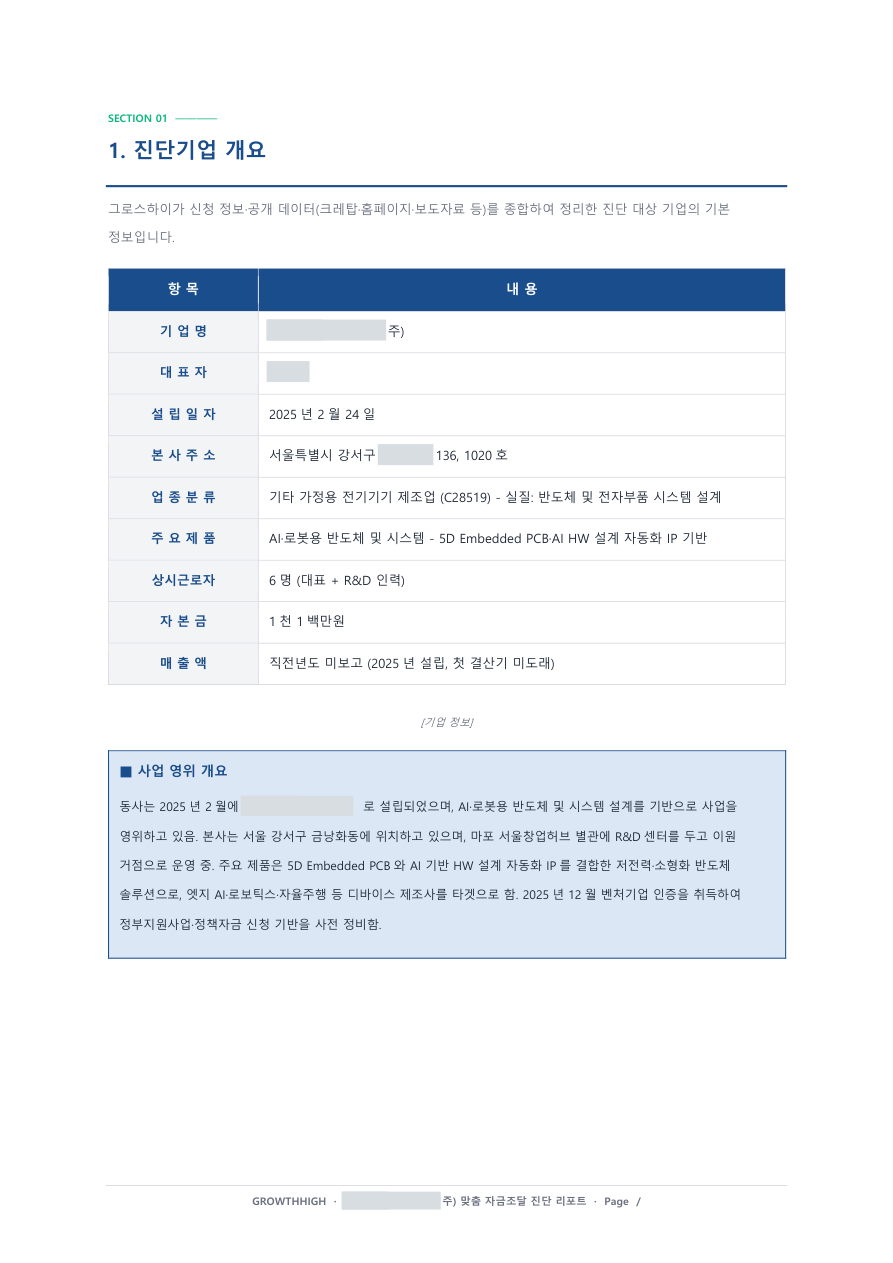
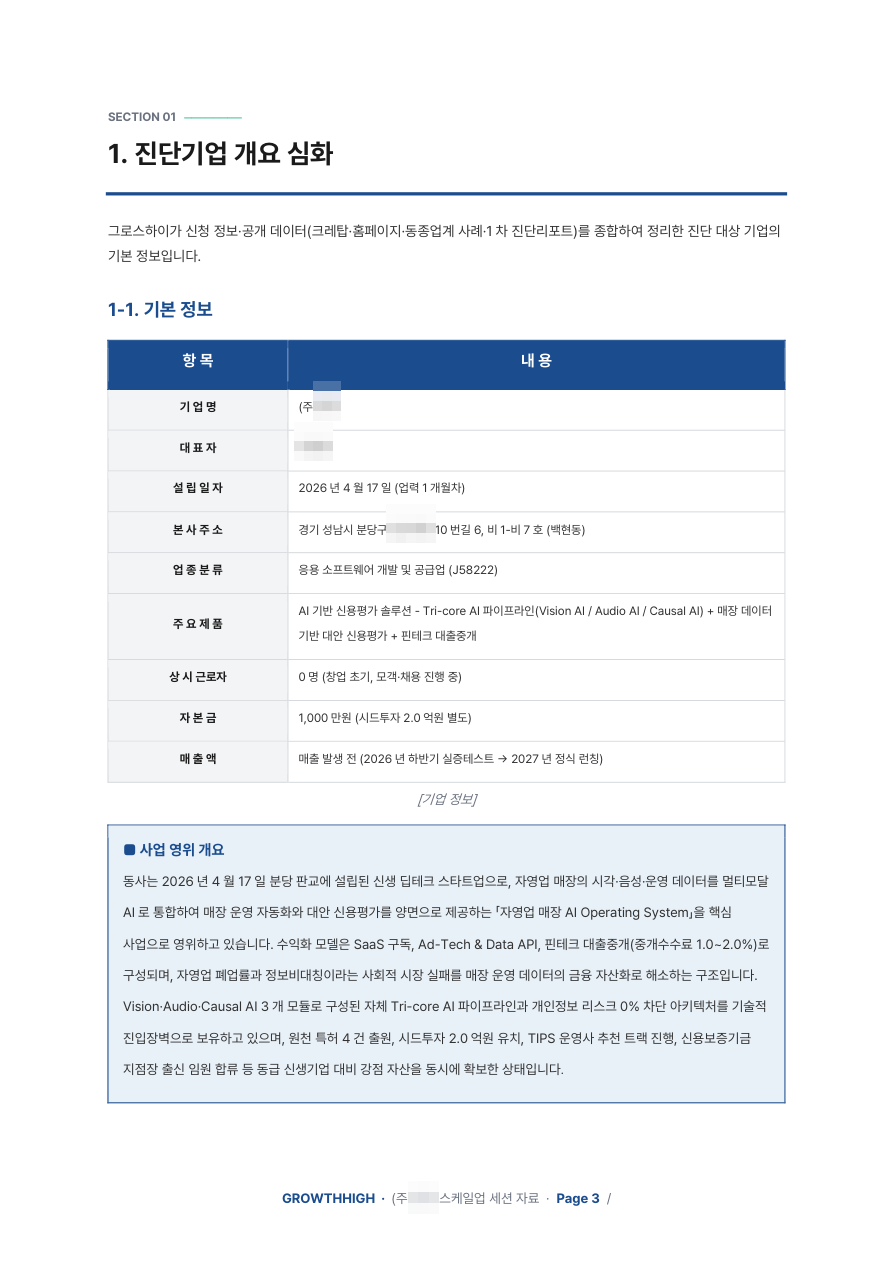
스케일업 세션 랜딩페이지 리포트 개편 (session/)
- 리포트 이미지 교체 (표지 + 섹션 01~05), 목차 항목명·설명 갱신
- 리포트 제작 방식 블록 신설 (DATA · AI AGENT · REVIEW 3카드)
- 키워드 「자금조달」 → 「런웨이」 전면 교체
- 세션 제목 아래 프레임워크 한 줄 추가 (BM진단 → 밸류라이징 → 런웨이 플랜)
- 색 체계 네이비 + 그린 2축으로 변경, 본문 강조 색 적용

rp-s06.png 는 포함하지 않음: 내장 인포그래픽에 고객사명이 마스킹되지
않은 채 남아 있어 별도 확인 후 반영 예정.

Changed region(s): [[0.1209, 0.0618, 0.9071, 0.8646], [0.2721, 0.9264, 0.6954, 0.9572], [0.5745, 0.5249, 0.6047, 0.5558]]

diff --git a/session/index.html b/session/index.html
@@ -47,12 +47,13 @@
 <style>
 :root{
   --green:#0f9d76;
-  --ink:#16181d;
-  --ink-2:#6b7079;
-  --ink-3:#9aa0a8;
-  --line:#e6e8ea;
+  --navy:#17284a;
+  --ink:#17284a;
+  --ink-2:#5c6577;
+  --ink-3:#959db0;
+  --line:#e3e7ee;
   --line-2:#cfd4d8;
-  --fill:#eef0f2;
+  --fill:#eef1f6;
 }
 *{box-sizing:border-box}
 html{scroll-behavior:smooth}
@@ -67,7 +68,7 @@ b{font-weight:700}
 .site-head{border-bottom:1px solid var(--line);padding:18px 0}
 .mark{font-size:17px;font-weight:700;letter-spacing:-.01em;text-decoration:none;color:var(--ink)}
 .mark em{font-style:normal;color:var(--green)}
-.site-foot{border-top:1px solid var(--line);background:#fafbfb;padding:38px 0 46px;margin-top:0}
+.site-foot{border-top:1px solid var(--line);background:#fafbfc;padding:38px 0 46px;margin-top:0}
 .fm{margin:0 0 14px;font-size:15px;font-weight:700;color:var(--ink)}
 .fm em{font-style:normal;color:var(--green)}
 .fi{margin:0 0 14px;font-size:12.5px;color:var(--ink-2);line-height:1.9}
@@ -97,7 +98,7 @@ b{font-weight:700}
 
 /* 숫자 */
 .stats{margin-top:34px;display:grid;grid-template-columns:repeat(4,1fr);
-  background:#f7f8f9;border-radius:16px;padding:30px 10px}
+  background:#f6f8fb;border-radius:16px;padding:30px 10px}
 .stats > div + div{border-left:1px solid #e3e6e9}
 .stats .n{margin:0 0 6px;font-size:30px;font-weight:700;color:var(--green);line-height:1.2;text-align:center}
 .stats .n span{font-size:15px;color:var(--ink);margin-left:2px}
@@ -123,7 +124,7 @@ b{font-weight:700}
 .cards{display:grid;grid-template-columns:repeat(3,1fr);gap:26px}
 
 /* 무료 이유 */
-.why-box{margin-top:52px;background:#f7f8f9;border-radius:16px;padding:44px 44px 40px;text-align:center}
+.why-box{margin-top:52px;background:#f6f8fb;border-radius:16px;padding:44px 44px 40px;text-align:center}
 .why-lead{margin:0 0 12px;font-size:23px;font-weight:700;letter-spacing:-.02em}
 .why-desc{margin:0 0 34px;font-size:14.5px;color:var(--ink-2);line-height:1.9}
 .why-grid{display:grid;grid-template-columns:repeat(3,1fr);gap:22px;text-align:left}
@@ -146,22 +147,29 @@ b{font-weight:700}
 
 /* 세션 소개 */
 .sess-intro{max-width:860px;margin:56px auto 0;padding:44px 40px;text-align:center;
-  background:#fafbfb;border:1px solid var(--line);border-radius:16px}
+  background:#fafbfc;border:1px solid var(--line);border-radius:16px}
 
-.sess-intro .sess-t{margin:0 0 22px;font-size:25px;font-weight:700;letter-spacing:-.025em;color:var(--ink);line-height:1.45}
+.sess-fw{margin:10px 0 22px;font-size:13px;font-weight:700;color:var(--green);letter-spacing:.02em}
+.sess-fw i{font-style:normal;color:#b9c2d2;margin:0 6px}
+.sess-intro .sess-t{margin:0 0 0;font-size:25px;font-weight:700;letter-spacing:-.025em;color:var(--ink);line-height:1.45}
 .sess-intro p{margin:0 0 22px;font-size:15px;color:var(--ink-2);line-height:2.05;word-break:keep-all}
-.sess-intro p b{color:var(--ink);font-weight:600}
+.sess-intro p b{color:var(--green);font-weight:700}
 .sess-intro p:last-child{margin-bottom:0}
 
 /* 리포트 */
 .rpt{margin-top:40px;background:#fff;border:1px solid var(--line);border-radius:14px;padding:34px 32px}
 .rpt-head{max-width:760px;margin:0 auto 30px;text-align:center}
 .rpt-head .t{margin:0 0 12px;font-size:20px;font-weight:700;letter-spacing:-.02em}
-.rpt-head .kw{display:inline-block;margin:0 0 20px;font-size:13px;font-weight:700;color:var(--green);
-  background:#f0f9f5;border:1px solid #d7ece5;border-radius:999px;padding:7px 18px;letter-spacing:-.01em}
+.rpt-head .hl{margin:0 0 12px;font-size:17px;font-weight:700;color:var(--ink);line-height:1.6;letter-spacing:-.015em}
+.rpt-head .hl span{background:linear-gradient(transparent 60%,rgba(15,157,118,.22) 60%)}
+.rpt-how{display:grid;grid-template-columns:repeat(3,1fr);gap:12px;margin-top:24px;text-align:left}
+.how{border:1px solid var(--line);border-radius:10px;padding:16px 16px 15px;background:#fafbfc}
+.how .hk{margin:0 0 8px;font-size:10.5px;font-weight:700;letter-spacing:.08em;color:var(--green)}
+.how .hv{margin:0 0 6px;font-size:14px;font-weight:700;letter-spacing:-.01em;line-height:1.5}
+.how .hd{margin:0;font-size:12px;color:var(--ink-2);line-height:1.75}
 .rpt-head .d{margin:0 0 16px;font-size:14.5px;color:var(--ink-2);line-height:2.05;word-break:keep-all}
 .rpt-head .d:last-child{margin-bottom:0}
-.rpt-head .d b{color:var(--ink);font-weight:600}
+.rpt-head .d b{color:var(--green);font-weight:700}
 .rpt-grid{display:grid;grid-template-columns:.62fr 1.38fr;gap:30px;align-items:stretch}
 .rpt-cover{position:relative;border:1px solid var(--line);border-radius:10px;overflow:hidden;
   box-shadow:0 12px 30px rgba(20,25,35,.11);background:#f4f6f8}
@@ -174,14 +182,14 @@ b{font-weight:700}
   transition:border-color .15s,background .15s}
 .rpt-it .n{margin:0;font-size:14px;font-weight:700}
 .rpt-it .n i{font-style:normal;color:var(--ink-3);font-size:11.5px;margin-right:9px}
-.rpt-it .dd{margin:8px 0 0;font-size:12.5px;color:#6b7079;line-height:1.8;display:none}
+.rpt-it .dd{margin:8px 0 0;font-size:12.5px;color:var(--ink-2);line-height:1.8;display:none}
 .rpt-it.on{border-color:var(--green);background:#f5fbf9}
 .rpt-it.on .dd{display:block}
 .rpt-it.on .n i{color:var(--green)}
 
 /* 디테일 */
 .rule{display:block;width:34px;height:3px;background:var(--green);border-radius:2px;margin:0 auto 18px}
-.hl{background:linear-gradient(transparent 62%,rgba(15,157,118,.16) 62%);padding:0 2px}
+.hl{background:linear-gradient(transparent 60%,rgba(15,157,118,.22) 60%);padding:0 2px}
 .badge{position:absolute;top:12px;left:12px;background:rgba(255,255,255,.94);
   color:var(--ink);font-size:11.5px;font-weight:700;padding:5px 11px;border-radius:6px;
   letter-spacing:-.01em}
@@ -203,6 +211,7 @@ b{font-weight:700}
 .step ul{margin:0;padding:0;list-style:none;border-top:1px solid #f0f2f4;padding-top:14px}
 .step li{position:relative;padding-left:15px;font-size:13.5px;color:var(--ink-2);
   line-height:1.7;margin-bottom:9px}
+.step li b{color:var(--green);font-weight:700}
 .step li:last-child{margin-bottom:0}
 .step li::before{content:"";position:absolute;left:0;top:9px;width:5px;height:5px;
   border-radius:50%;background:#cdd3d9}
@@ -215,6 +224,7 @@ b{font-weight:700}
 .form-head{text-align:center;padding-bottom:26px;margin-bottom:26px;border-bottom:1px solid var(--line)}
 .form-head h2{margin:0 0 10px;font-size:23px;font-weight:700;line-height:1.5;letter-spacing:-.02em}
 .form-head h2 span{color:var(--green)}
+.form-head h2{color:var(--navy)}
 .form-head p{margin:0;font-size:13.5px;color:var(--ink-2)}
 
 /* 폼 */
@@ -261,7 +271,8 @@ b{font-weight:700}
   .steps{gap:14px}
   .sess-intro{padding:28px 20px;margin-top:36px}
   .sess-intro .sess-t{font-size:21px}
-  .rpt-head .kw{font-size:12px;padding:7px 14px;line-height:1.7}
+  .rpt-how{grid-template-columns:1fr;gap:10px}
+  .rpt-head .hl{font-size:15.5px}
   .rpt{padding:24px 20px}
   .rpt-grid{grid-template-columns:1fr;gap:22px}
   .rpt-it{flex:none}
@@ -341,8 +352,9 @@ b{font-weight:700}
   <div class="sess-intro">
     <span class="rule"></span>
     <h2 class="sess-t">그로스하이 스케일업 세션</h2>
-    <p>지원사업과 정책자금, 보증, 투자까지 기업이 활용할 수 있는 자금조달 방법은 다양합니다.<br><b>그러나 모든 기업에 같은 전략이 적용되지는 않습니다.</b></p>
-    <p>그로스하이 스케일업 세션은 <b>기업의 비즈니스모델과 현재 사업단계</b>에서 출발합니다.<br>기술·산업 동향과 시장환경, 지금까지 확보한 성과를 함께 분석해 지금 검토해야 할 <b>자금조달 경로와 준비 순서</b>를 짚어드립니다.</p>
+    <p class="sess-fw">BM진단 <i>→</i> 밸류라이징 <i>→</i> 런웨이 플랜</p>
+    <p>정책자금과 지원사업, 보증, 투자까지 기업이 확보할 수 있는 <b>런웨이</b>는 다양합니다.<br><b>그러나 모든 기업에 같은 전략이 적용되지는 않습니다.</b></p>
+    <p>그로스하이 스케일업 세션은 <b>기업의 비즈니스모델과 현재 사업단계</b>에서 출발합니다.<br>기술·산업 동향과 시장환경, 지금까지 확보한 성과를 함께 분석해 지금 확보 가능한 <b>런웨이와 준비 순서</b>를 짚어드립니다.</p>
   </div>
 </section>
 
@@ -358,9 +370,9 @@ b{font-weight:700}
       <h4>귀사 사전 분석</h4>
       <p class="when">세션 전 1주간</p>
       <ul>
-        <li>산업 · BM · 전략 히스토리 사전 분석</li>
+        <li><b>산업 · BM · 전략 히스토리</b> 사전 분석</li>
         <li>섹터 케이스 스터디</li>
-        <li>맞춤 스케일업 전략 리포트 준비</li>
+        <li><b>맞춤 스케일업 전략 리포트</b> 준비</li>
       </ul>
     </div>
     <div class="step reveal">
@@ -369,7 +381,7 @@ b{font-weight:700}
       <p class="when">60분 대면 세션</p>
       <ul>
         <li>섹터 내 Issue · Needs 파인딩</li>
-        <li>전략 진단 - BM · R&amp;D · 자금 전략방향</li>
+        <li>전략 진단 - <b>BM · R&amp;D · 런웨이</b> 전략방향</li>
         <li>블루프린트 - 해결 케이스 기반</li>
         <li>자문 지도 - 액션 아이템</li>
       </ul>
@@ -379,7 +391,7 @@ b{font-weight:700}
       <h4>리캡노트 정리</h4>
       <p class="when">세션 후 즉시</p>
       <ul>
-        <li>맞춤 리캡노트 제공</li>
+        <li><b>맞춤 리캡노트</b> 제공</li>
         <li>논의된 액션아이템 구조화 요약</li>
         <li>필요 시 심층 리포트(50P) 별도 구매</li>
       </ul>
@@ -388,9 +400,25 @@ b{font-weight:700}
   <div class="rpt reveal">
     <div class="rpt-head">
       <p class="t">스케일업 세션 리포트</p>
-      <p class="kw">「BM · R&amp;D · 자금」 필요충분조건 &nbsp;+&nbsp; 맞춤형 성장 로드맵</p>
-      <p class="d">세션에서 나눈 이야기를 상담으로 끝내지 않고, <b>실제 성장 전략으로 이어갑니다.</b><br>비즈니스 모델과 사업 단계, 자금 조달 전략을 기업 상황에 맞게 설계한 <b>맞춤형 스케일업 리포트</b>를 제공해 다음 액션을 구체화합니다.</p>
-      <p class="d">이 리포트에는 그로스하이가 <b>1,200여 개 스타트업</b>을 컨설팅하며 축적한 경험과<br><b>134건의 스케일업 사례</b>에서 얻은 인사이트를 담았습니다.</p>
+      <p class="hl">세션에서 나눈 이야기를 상담으로 끝내지 않고, <span>실제 성장 전략으로 이어갑니다.</span></p>
+      <p class="d">비즈니스 모델과 사업 단계, 런웨이 플랜을 기업 상황에 맞게 설계한 <b>맞춤형 스케일업 리포트</b>를 제공해 다음 액션을 구체화합니다.</p>
+      <div class="rpt-how">
+        <div class="how">
+          <p class="hk">DATA</p>
+          <p class="hv">실시간 17개 정책사이트</p>
+          <p class="hd">공고 원문에서 지원 규모·자격·마감을 직접 확인</p>
+        </div>
+        <div class="how">
+          <p class="hk">AI AGENT</p>
+          <p class="hv">그로스하이 자체 경험칙 학습</p>
+          <p class="hd">1,200여 개 컨설팅과 134건 스케일업 사례 기준으로 매칭</p>
+        </div>
+        <div class="how">
+          <p class="hk">REVIEW</p>
+          <p class="hv">담당 컨설턴트 인적 검수</p>
+          <p class="hd">기업 상황에 맞는지 사람이 다시 판단하고 보완</p>
+        </div>
+      </div>
     </div>
     <div class="rpt-grid" id="rpt">
       <div>
@@ -402,28 +430,28 @@ b{font-weight:700}
       </div>
       <div class="rpt-list">
         <div class="rpt-it" data-img="img/rp-s01.png">
-          <p class="n"><i>01</i>진단기업 개요</p>
-          <p class="dd">신청 정보와 공개 데이터를 종합해 기본 정보와 사업 영위 개요를 담습니다.</p>
+          <p class="n"><i>01</i>진단기업 개요 심화</p>
+          <p class="dd">기본 정보와 사업 영위 개요에 BM 캔버스, 핵심 자원, 경쟁구도 분석을 더해 심화합니다.</p>
         </div>
         <div class="rpt-it" data-img="img/rp-s02.png">
-          <p class="n"><i>02</i>맞춤 전략 리포팅</p>
-          <p class="dd">적합 정부지원사업, 정책자금·보증, 기업인증 로드맵, 추가 전략 기회를 매칭합니다.</p>
+          <p class="n"><i>02</i>맞춤 전략 리포팅 심화</p>
+          <p class="dd">적합 정부지원사업과 정책자금·보증, 기업인증 로드맵, 추가 전략 기회를 매칭하고 실행 절차까지 안내합니다.</p>
         </div>
         <div class="rpt-it" data-img="img/rp-s03.png">
-          <p class="n"><i>03</i>사업별 검토리뷰</p>
-          <p class="dd">상위 3개 사업에 대해 적합 포인트·보완 포인트·합격 전략의 3단 분석을 제공합니다.</p>
+          <p class="n"><i>03</i>사업별 검토리뷰 + PSST 작성 전략</p>
+          <p class="dd">상위 3개 사업을 PSST 프레임(Problem·Solution·Scale-up·Team) 4개 항목별로 분해합니다.</p>
         </div>
         <div class="rpt-it" data-img="img/rp-s04.png">
-          <p class="n"><i>04</i>중소기업 전략기술 로드맵 매핑</p>
-          <p class="dd">보유 기술을 전략기술 로드맵 키워드와 매핑해 R&amp;D·기술혁신 트랙 적합도를 분석합니다.</p>
+          <p class="n"><i>04</i>전략기술 로드맵 매핑 + R&amp;D 과제명</p>
+          <p class="dd">보유 기술을 전략기술 로드맵 품목과 매핑하고, 신청 가능한 R&amp;D 과제명 후보까지 제시합니다.</p>
         </div>
         <div class="rpt-it" data-img="img/rp-s05.png">
-          <p class="n"><i>05</i>동종 업계 선정 사례</p>
-          <p class="dd">유사한 단계·업종·기술 영역의 선정 사례와 자사와의 유사도, 합격 시사점을 제시합니다.</p>
+          <p class="n"><i>05</i>동종 업계 선정 사례 + 합격요인</p>
+          <p class="dd">동종 사례를 합격요인 PSST 분해·자사 적용 시사점·차별 우위 3축으로 정리합니다.</p>
         </div>
         <div class="rpt-it" data-img="img/rp-s06.png">
           <p class="n"><i>06</i>종합 진단</p>
-          <p class="dd">항목별 진단을 점수화하고 사업 단계를 함께 짚습니다.</p>
+          <p class="dd">5개 항목을 점수화한 레이더 차트와 사업 단계 타임라인, 핵심 권고 3가지를 담습니다.</p>
         </div>
       </div>
     </div>
